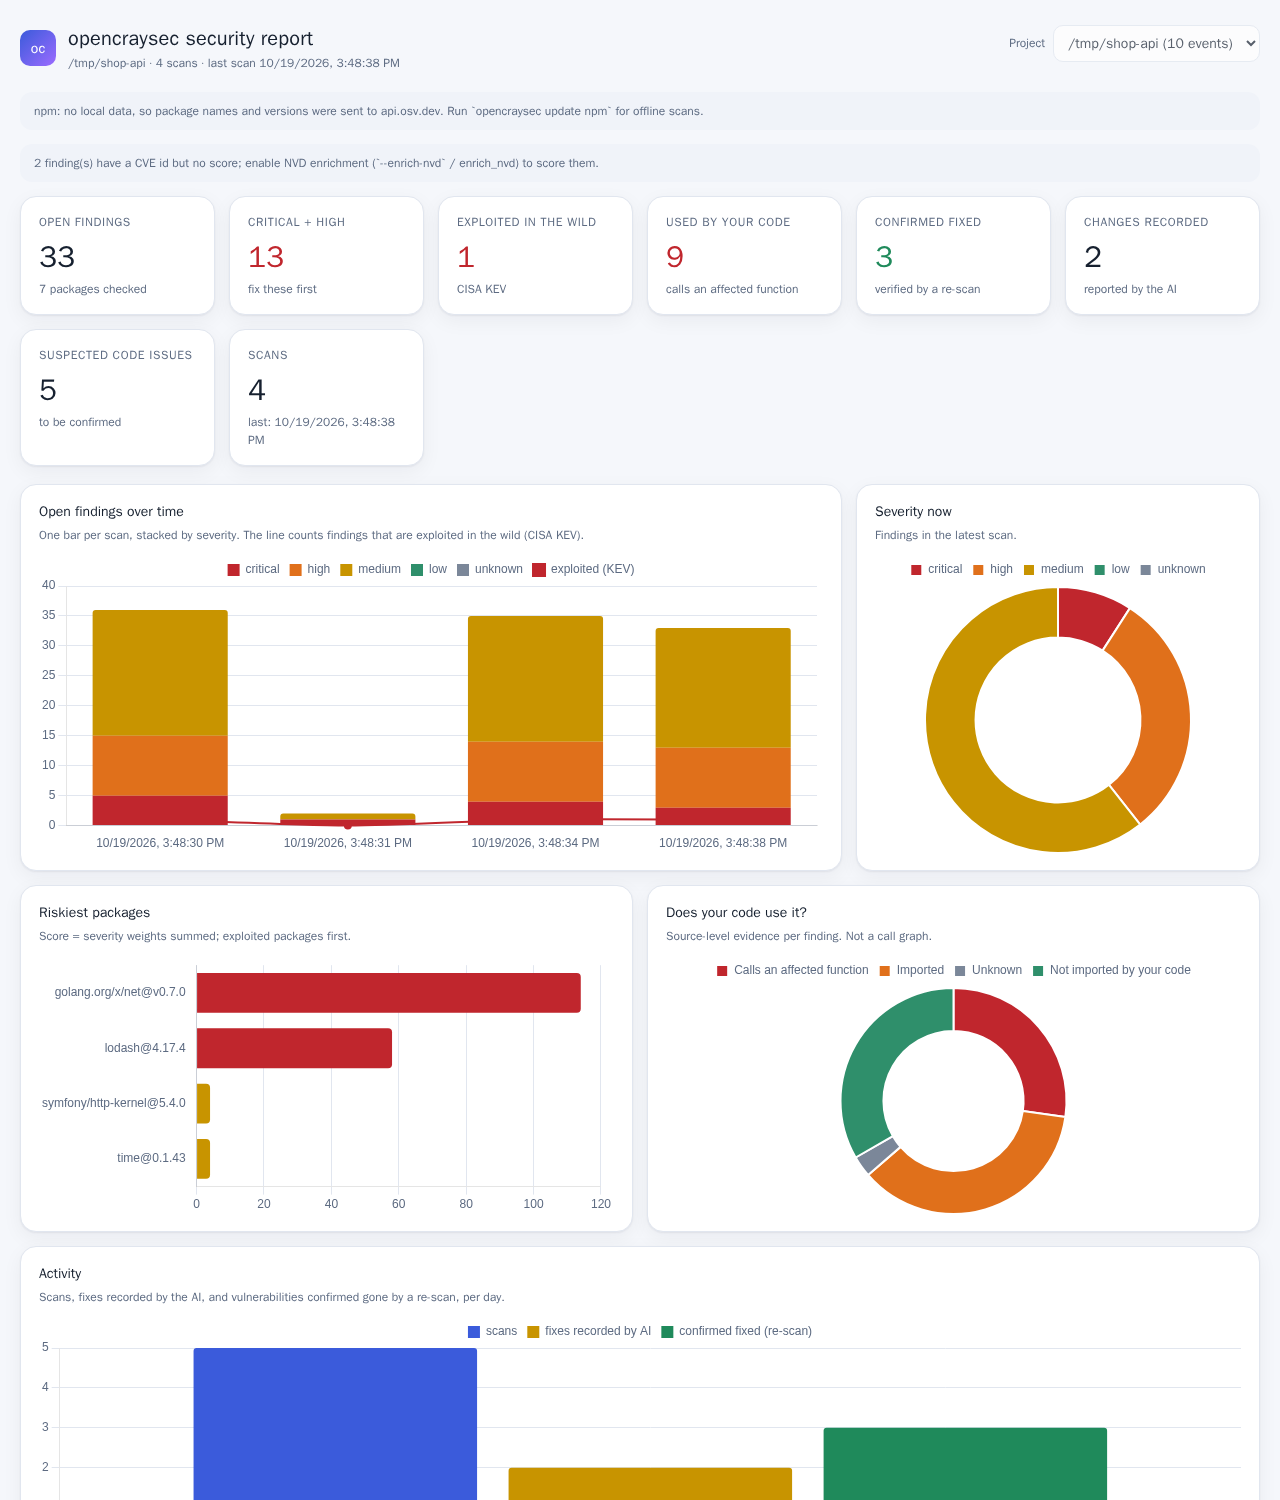
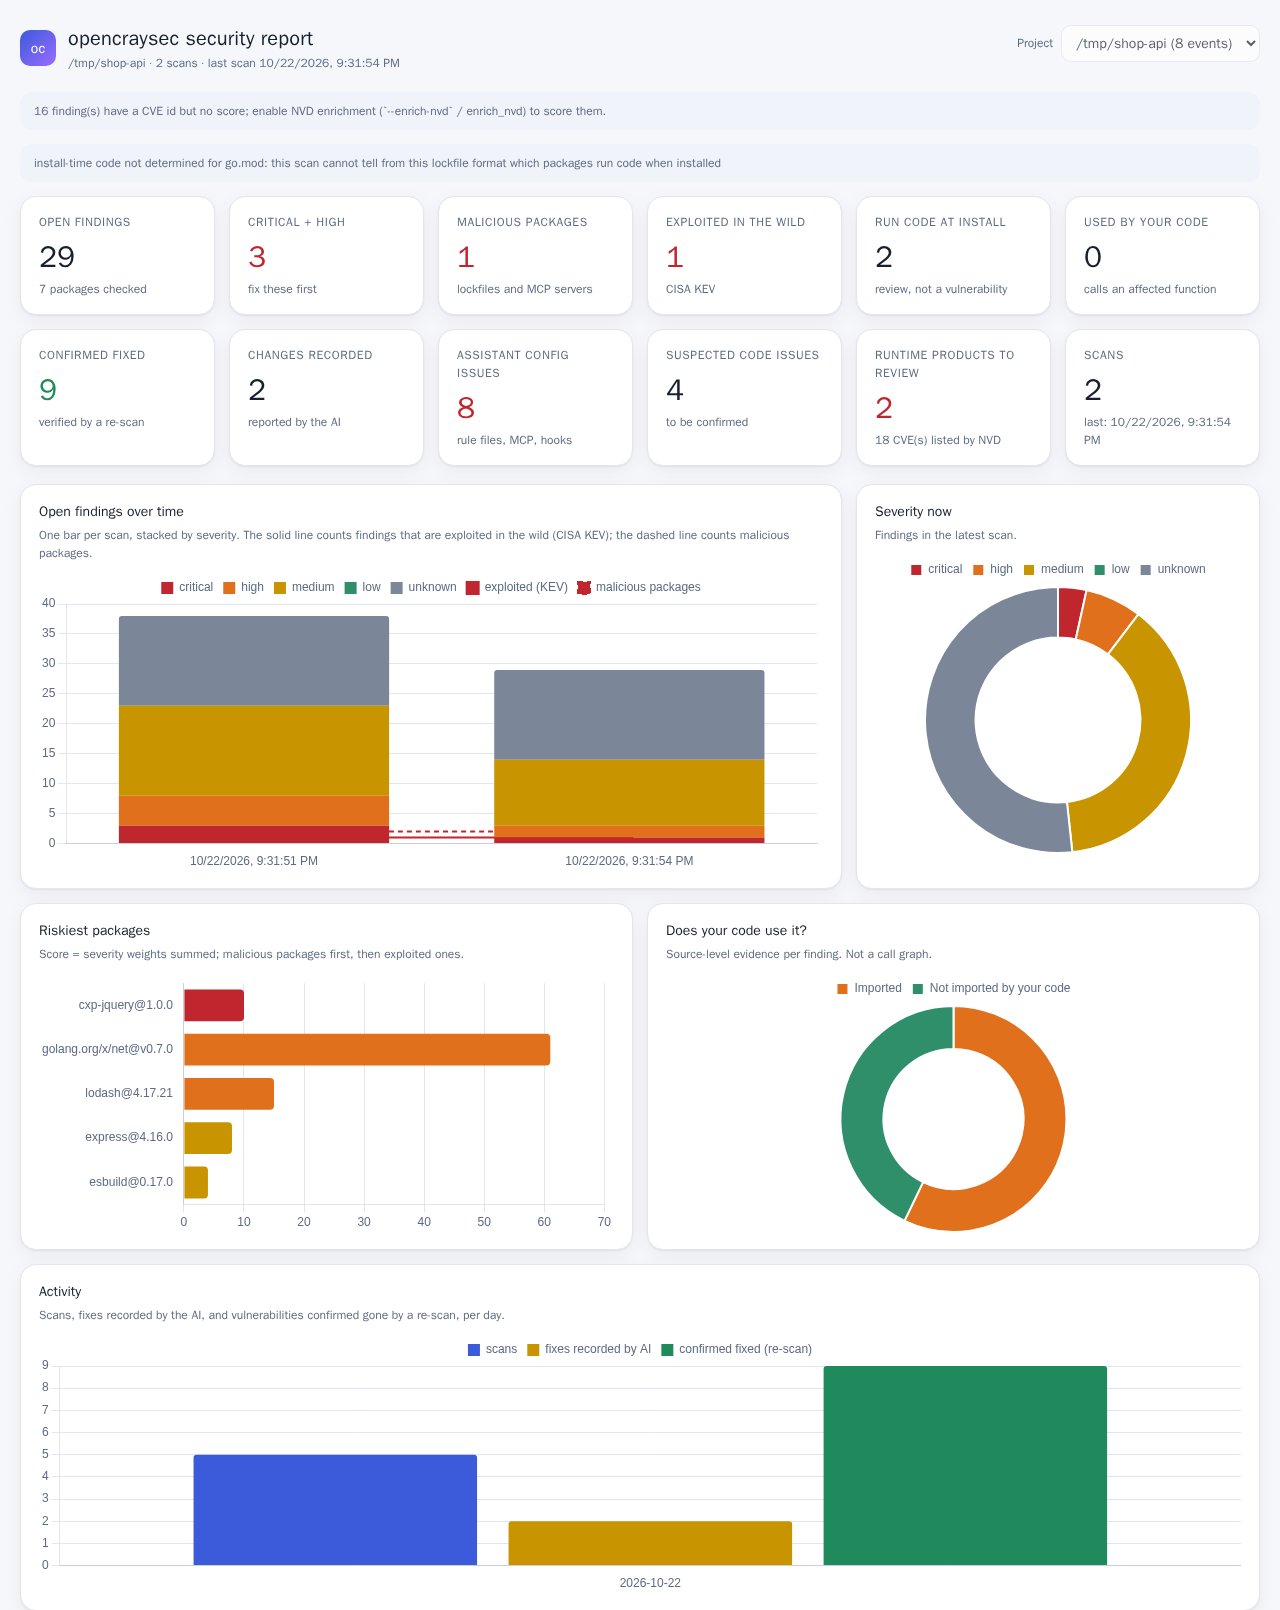
docs[克勞德]: new README screenshots of the current report, and say what in them is simulated
The three images show the report as it is now: the malicious-package,
install-time, assistant-configuration, code and runtime numbers, the over-time
chart with the dashed malicious line, what was changed and why, and the
assistant configuration and AI-code panels.

They come from a scratch project written for the purpose, with real advisory
data. The caption now says that, that one package in it is a real entry from
the public malicious-package data, and that the fix history was recorded by a
script standing in for an assistant (the client is shown as cli).

BY 克勞德

diff --git a/README.md b/README.md
@@ -55,15 +55,22 @@ your machine.
 ## See it in action
 
 <p align="center">
-  <img src="docs/media/dashboard-overview.png" alt="The opencraysec report: counts of open, critical, exploited and used-by-your-code findings, severity over time, the riskiest packages and whether the code uses them" width="820">
+  <img src="docs/media/dashboard-overview.png" alt="The opencraysec report: counts of open, critical, malicious, exploited and used-by-your-code findings, packages that run code at install, assistant configuration and code issues, runtime products to review, severity over time, the riskiest packages and whether the code uses them" width="820">
 </p>
 
 <p align="center">
-  <img src="docs/media/dashboard-fixes.png" alt="What was changed, and why: each fix with the assistant's reason, the measured lockfile change, the commands, the commit and the advisories with their references" width="820">
+  <img src="docs/media/dashboard-fixes.png" alt="What was changed, and why: each fix with the assistant's reason, the measured lockfile change, the commands and the advisories with their references, and the vulnerabilities a re-scan confirmed gone" width="820">
 </p>
 
-> Both images come from a scratch project (`/tmp/shop-api`) with real advisory data; no customer data
-> or personal paths are shown.
+<p align="center">
+  <img src="docs/media/dashboard-ai.png" alt="The AI assistant configuration panel (rule files, MCP server settings, hooks, tasks and skills, each finding with its CWE and what to do) and the suspected code issues for code that calls an AI model" width="820">
+</p>
+
+> The images come from a scratch project (`/tmp/shop-api`) written for the demonstration, with real
+> advisory data: the findings and numbers are what opencraysec reported. One package in it is a real
+> entry from the public malicious-package data. The fix history was recorded by a script standing in for
+> an assistant: it edited the lockfile and then ran `record-fix` and `verify-fix`, which is why the
+> client is shown as `cli`. No customer data or personal paths are shown.
 
 ## Install in 30 seconds
 
